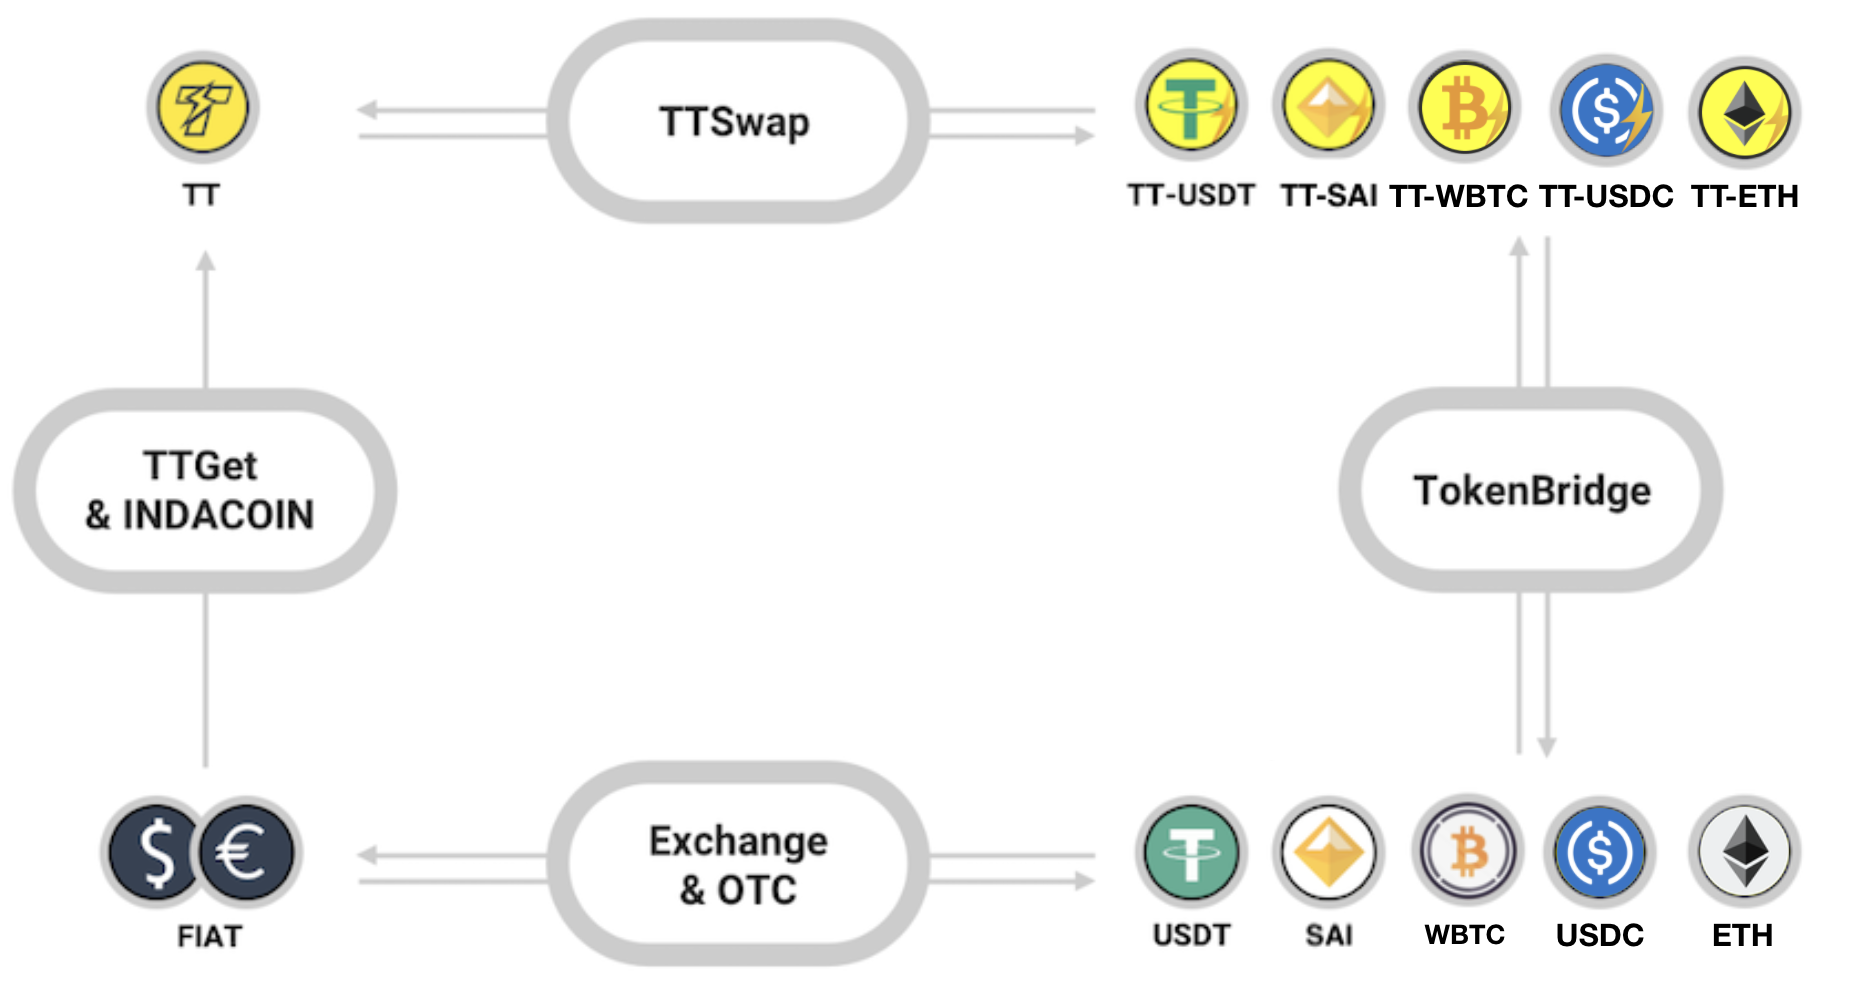
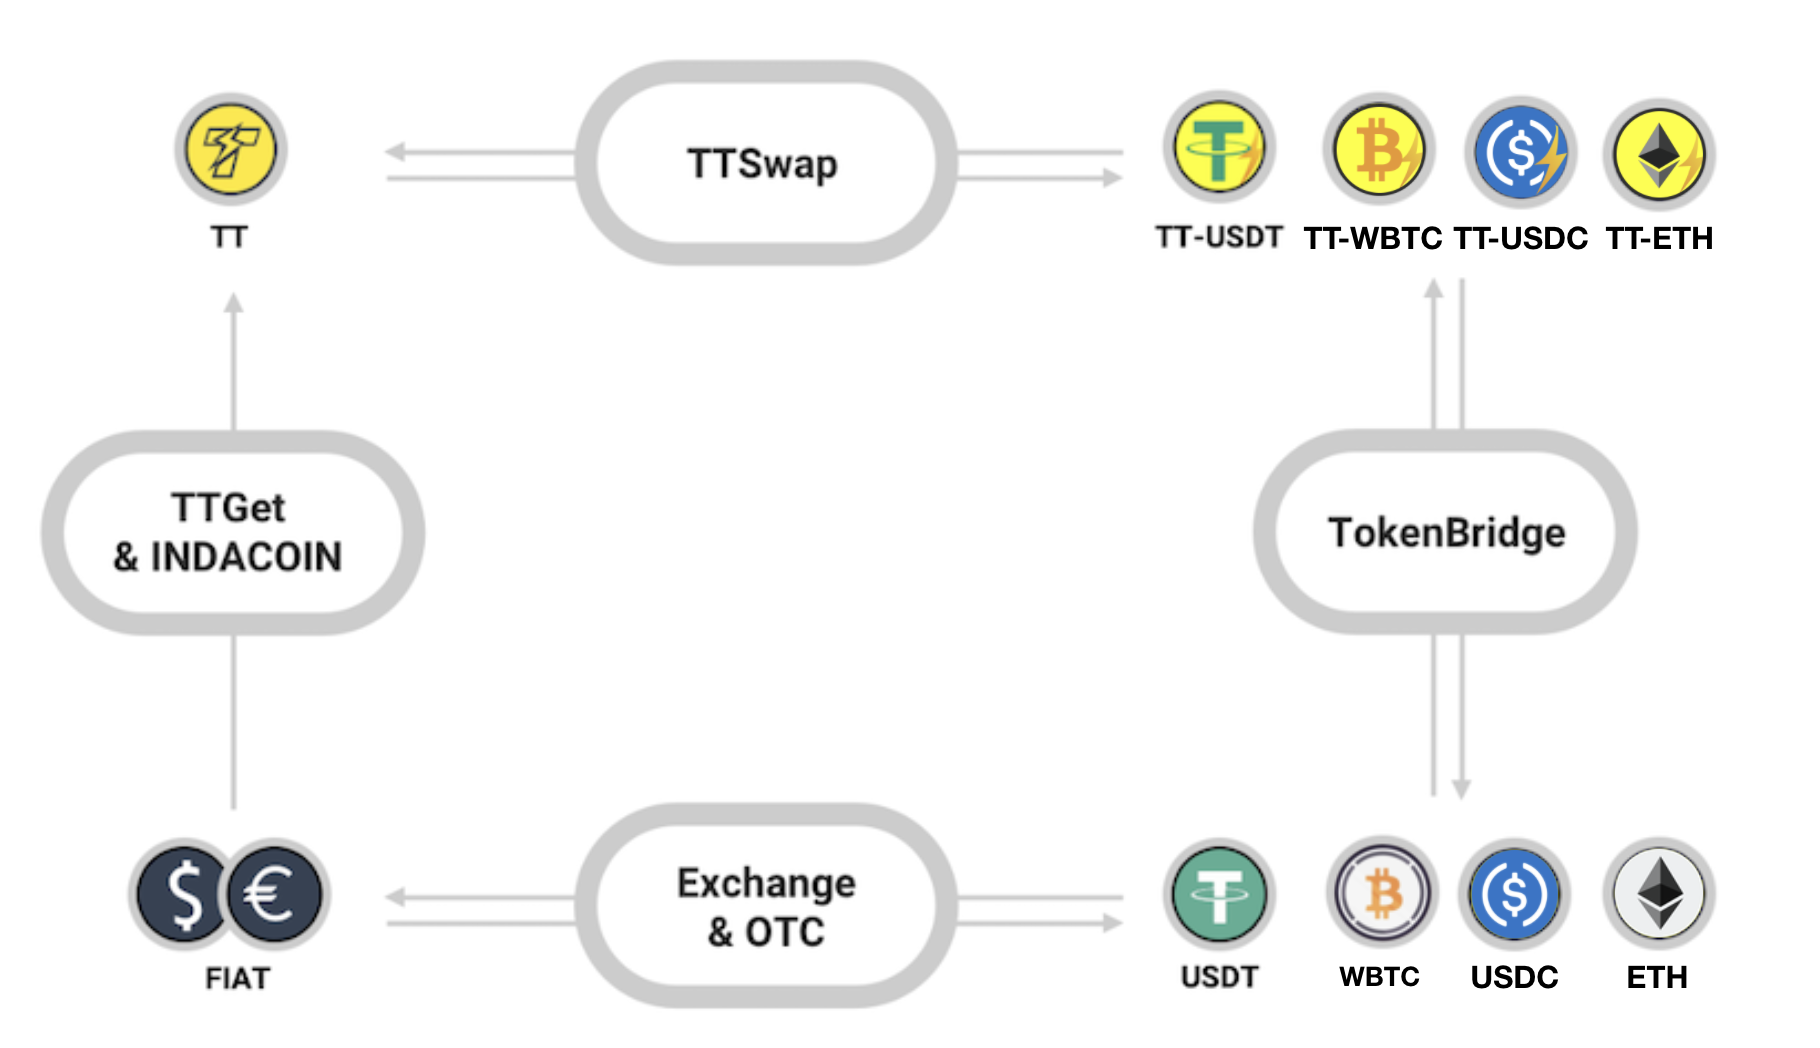
Update reflecting TT-SAI retire

Changed region(s): [[0.0, 0.0, 0.9846, 0.961], [0.2769, 0.744, 0.5231, 0.992], [0.0308, 0.775, 0.2154, 0.961]]

diff --git a/docs-en/stblecoin-metamask.md b/docs-en/stblecoin-metamask.md
@@ -4,11 +4,11 @@ title: Add TT20-StableCoin to MetaMask
 ---
 
 ## Intro
-Here’s a guide to show you how to add TT20-USDT or TT20-SAI to your MetaMask. Please note that MetaMask is a third party Web3 wallet, if you have questions about the wallet, please [contact](https://metamask.zendesk.com/hc/en-us) the wallet provider directly.
+Here’s a guide to show you how to add TT20-USDT to your MetaMask. Please note that MetaMask is a third party Web3 wallet, if you have questions about the wallet, please [contact](https://metamask.zendesk.com/hc/en-us) the wallet provider directly.
 
-*TT20-StableCoin: TT20-USDT, TT20-SAI (learn [more](https://www.wikiwand.com/en/Stablecoin) about stablecoin)*
+*TT20-StableCoin: TT20-USDT (learn [more](https://www.wikiwand.com/en/Stablecoin) about stablecoin)*
 
-*If you want to know how to set up and use your MetaMask, please refer to [here](https://developers.thundercore.com/docs/get-wallet/#metamask)*
+*If you want to know how to set up and use your MetaMask, please refer [here](https://developers.thundercore.com/docs/get-wallet/#metamask)*
 
 ## Add TT20-USDT to MetaMask
 
@@ -39,29 +39,3 @@ Here’s a guide to show you how to add TT20-USDT or TT20-SAI to your MetaMask. 
 7. Then you will see TT-USDT listed on your MetaMask
 
 ![alt-text](assets/img/stablecoin-metamask/stablecoin-metamask-7.png)
-
-## Add TT20-SAI to MetaMask
-
-1. Open your MetaMask and make sure the Networks has been switched to ThunderCore
-
-![alt-text](assets/img/stablecoin-metamask/stablecoin-metamask-8.png)
-
-2. Click Add Token 
-
-![alt-text](assets/img/stablecoin-metamask/stablecoin-metamask-9.png)
-
-3. Select Custom Token in the tab
-
-![alt-text](assets/img/stablecoin-metamask/stablecoin-metamask-10.png)
-
-4. Copy `0x2b31e3b88847f03c1335E99A0d1274A2c72059DE` to the Token Contract Address and then the other blanks will be filled in automatically. Press Next to proceed
-
-![alt-text](assets/img/stablecoin-metamask/stablecoin-metamask-11.png)
-
-5. Press Add Tokens to proceed
-
-![alt-text](assets/img/stablecoin-metamask/stablecoin-metamask-12.png)
-
-6. Then you will see TT20-SAI listed on your MetaMask
-
-![alt-text](assets/img/stablecoin-metamask/stablecoin-metamask-13.png)

diff --git a/docs-en/token-listing.md b/docs-en/token-listing.md
@@ -1,0 +1,44 @@
+---
+id: token-listing
+title: Token Listing
+
+# How to add your Token to the ThunderCore Hub ⚡
+
+
+## Intro
+This intro shows you how to list your token on to the ThunderCore Hub, a cryptocurrency wallet with a DAU (Daily Average Users) exceeding 35K. Your tokens will have a chance of achieving great success!
+
+ThunderCore strives to create a platform full of opportunities, rich with content and have many users for developers. You can achieve your dreams here in the ThunderCore community! 
+
+*Please note that your project must be sound and have available information, and most importantly: it must meet all the necessary conditions listed in this article.*
+
+## Token Information
+* Fulfill all the reviewing items below:
+   * Token information 
+      * Address 
+      * Symbol 
+      * Name 
+      * Decimals 
+      * Description (optional) 
+   * Contact information of submitter (Twitter / Telegram / Email)
+   * Product / Website URL
+   * Logo / Icon image (should be not larger than *256 x 256* pixels) 
+
+## Decline Listing Policy
+   * Miss any token information mentioned above
+   * AUpon verification, if found that the smart contract is malicious, ThunderCore reserves the right to decline/revoke listing.
+
+## Listing Fee
+      * 1,000 Thunder Token (TT) per listing 
+      * NOTE: In the case of rejected application, there will be no refund.
+
+## Listing Steps
+         1. Create a pull request to change the `token-list`
+         2. Initiate a transaction to **0x103550d3e41F5e6986aDfDAbaBF610f750932B54**. Its data has a pull request number, and the value must be at least `1000 TT`
+         3. Update the transaction hash in the pull request
+
+
+## Disclaimer
+         * If your project has not been updated for a period of time or is found to be malicious, ThunderCore reserves the right to remove the token from the ThunderCore Hub. 
+         * After your token is listed, it does not mean that ThunderCore has a partnership with your project directly. 
+         * Token listing requests are not guaranteed to be reviewed or executed.

diff --git a/docs-cn/stblecoin-metamask.md b/docs-cn/stblecoin-metamask.md
@@ -4,9 +4,9 @@ title: 将 TT-稳定币添加到 MetaMask
 ---
 
 ## 介绍
-这是向您展示如何将 TT-USDT 或 TT-SAI 添加到您的 MetaMask 的指南。请注意，MetaMask 是一款第三方 Web3 钱包，如果对钱包有疑问，请直接与钱包提供商 [联系](https://metamask.zendesk.com/hc/zh-cn)。
+这是向您展示如何将 TT-USDT 添加到您的 MetaMask 的指南。请注意，MetaMask 是一款第三方 Web3 钱包，如果对钱包有疑问，请直接与钱包提供商 [联系](https://metamask.zendesk.com/hc/zh-cn)。
 
-*TT-稳定币： TT-USDT, TT-SAI (了解 [更多](https://www.wikiwand.com/zh-cn/%E7%A8%B3%E5%AE%9A%E5%B8%81) 关于稳定币)*
+*TT-稳定币： TT-USDT (了解 [更多](https://www.wikiwand.com/zh-cn/%E7%A8%B3%E5%AE%9A%E5%B8%81) 关于稳定币)*
 
 *如果您想知道如何设置和使用您的 MetaMask，请参考 [这里](https://support-center.thundercore.com/docs/metamask/)*
 
@@ -39,29 +39,3 @@ title: 将 TT-稳定币添加到 MetaMask
 7. 然后，您将看到 TT-USDT 列在您的 MetaMask 中
 
 ![alt-text](assets/img/stablecoin-metamask/stablecoin-metamask-7.png)
-
-## 将 TT-SAI 添加到 MetaMask
-
-1. 打开您的 MetaMask，并确保网络已切换到 ThunderCore
-
-![alt-text](assets/img/stablecoin-metamask/stablecoin-metamask-8.png)
-
-2. 点击添加代币
-
-![alt-text](assets/img/stablecoin-metamask/stablecoin-metamask-9.png)
-
-3. 在标签中选择自定义代币
-
-![alt-text](assets/img/stablecoin-metamask/stablecoin-metamask-10.png)
-
-4. 将 `0x2b31e3b88847f03c1335E99A0d1274A2c72059DE` 复制到代币合约地址，其他空白栏位将自动填入，按下一步继续
-
-![alt-text](assets/img/stablecoin-metamask/stablecoin-metamask-11.png)
-
-5. 按添加代币继续
-
-![alt-text](assets/img/stablecoin-metamask/stablecoin-metamask-12.png)
-
-6. 然后，您将看到 TT-SAI 列在您的 MetaMask 中
-
-![alt-text](assets/img/stablecoin-metamask/stablecoin-metamask-13.png)

diff --git a/docs-cn/stblecoin-trustwallet.md b/docs-cn/stblecoin-trustwallet.md
@@ -4,9 +4,9 @@ title: 将 TT-稳定币添加到 Trust Wallet
 ---
 
 ## 介绍
-这里将向您展示如何将 TT-USDT 或 TT-SAI 添加到您的 Trust Wallet。请注意，Trust Wallet 是一款第三方钱包，如果对钱包有疑问，请直接与钱包提供商联系。
+这里将向您展示如何将 TT-USDT 添加到您的 Trust Wallet。请注意，Trust Wallet 是一款第三方钱包，如果对钱包有疑问，请直接与钱包提供商联系。
 
-*TT-稳定币： TT-USDT, TT-SAI (了解 [更多](https://www.wikiwand.com/zh-cn/%E7%A8%B3%E5%AE%9A%E5%B8%81) 关于稳定币)*
+*TT-稳定币： TT-USDT (了解 [更多](https://www.wikiwand.com/zh-cn/%E7%A8%B3%E5%AE%9A%E5%B8%81) 关于稳定币)*
 
 ## 将 TT-USDT 添加到 Trust Wallet
 
@@ -37,33 +37,3 @@ Item | Field
 **Decimals** | 6
 
 ![alt-text](assets/img/stablecoin-trustwallet/stablecoin-trustwallet-6.png)
-
-## 将 TT-SAI 添加到 Trust Wallet
-
-1. 打开 Trust Wallet，然后单击右上角的 `+` 
-
-![alt-text](assets/img/stablecoin-trustwallet/stablecoin-trustwallet-7.png)
-
-2. 在搜索栏中搜索 SAI 或任何文字，然后点击“添加自定义代币”
-
-![alt-text](assets/img/stablecoin-trustwallet/stablecoin-trustwallet-8.png)
-
-3. 请将网络从以太坊切换到 Thunder Token
-
-![alt-text](assets/img/stablecoin-trustwallet/stablecoin-trustwallet-9.png)
-
-![alt-text](assets/img/stablecoin-trustwallet/stablecoin-trustwallet-10.png)
-
-4. 将 `0x2b31e3b88847f03c1335E99A0d1274A2c72059DE` 复制到合约地址，然后将合约地址粘贴到栏位中 
-
-![alt-text](assets/img/stablecoin-trustwallet/stablecoin-trustwallet-11.png)
-
-5. 请在以下栏位中输入以下信息：
-
-Item | Field
------ | -----
-**Name** | TT-SAI
-**Symbol** | TT-SAI
-**Decimals** | 18
-
-![alt-text](assets/img/stablecoin-trustwallet/stablecoin-trustwallet-12.png)

diff --git a/docs-en/stblecoin-trustwallet.md b/docs-en/stblecoin-trustwallet.md
@@ -4,9 +4,9 @@ title: Add TT20-StableCoin to Trust Wallet
 ---
 
 ## Intro
-Here’s a guide to show you how to add TT20-USDT or TT20-SAI to your Trust Wallet. Please note that Trust Wallet is a third party wallet, if you have questions about the wallet, please contact the wallet provider directly.
+Here’s a guide to show you how to add TT20-USDT to your Trust Wallet. Please note that Trust Wallet is a third party wallet, if you have questions about the wallet, please contact the wallet provider directly.
 
-*TT20-StableCoin: TT20-USDT, TT20-SAI (learn [more](https://www.wikiwand.com/en/Stablecoin) about stablecoin)*
+*TT20-StableCoin: TT20-USDT (learn [more](https://www.wikiwand.com/en/Stablecoin) about stablecoin)*
 
 ## Add TT20-USDT to Trust Wallet
 
@@ -37,31 +37,3 @@ Item | Field
 **Decimals** | 6
 
 ![alt-text](assets/img/stablecoin-trustwallet/stablecoin-trustwallet-6.png)
-
-## Add TT20-SAI to Trust Wallet
-
-1. Open Trust Wallet and click on the “+” in the top right corner 
-
-![alt-text](assets/img/stablecoin-trustwallet/stablecoin-trustwallet-7.png)
-
-2. Search for SAI or any text in the search bar, then tap the “Add Custom Token” 
-
-![alt-text](assets/img/stablecoin-trustwallet/stablecoin-trustwallet-8.png)
-
-3. Please switch the Network from Ethereum to Thunder Token
-
-![alt-text](assets/img/stablecoin-trustwallet/stablecoin-trustwallet-9.png)
-
-![alt-text](assets/img/stablecoin-trustwallet/stablecoin-trustwallet-10.png)
-
-4. Copy `0x2b31e3b88847f03c1335E99A0d1274A2c72059DE` to the contract address then paste the contract address into the field
-
-![alt-text](assets/img/stablecoin-trustwallet/stablecoin-trustwallet-11.png)
-
-Item | Field
------ | -----
-**Name** | TT-SAI
-**Symbol** | TT-SAI
-**Decimals** | 18
-
-![alt-text](assets/img/stablecoin-trustwallet/stablecoin-trustwallet-12.png)

diff --git a/docs-en/stablecoin.md b/docs-en/stablecoin.md
@@ -4,11 +4,11 @@ title: Deposit / Withdraw TT20 stablecoin
 ---
 ## Intro about TT20 stablecoin
 
-In order to give our users a better experience of ThunderCore's ecosystem, when you use USDT/SAI to deposit into ThunderCore Hub, it will be automatically converted to TT20 stablecoin. **Please don't worry**, this process is reversible, and when you try to withdraw TT20 stablecoin to your other wallet, it will be converted back to USDT/SAI. 
+In order to give our users a better experience of ThunderCore's ecosystem, when you use USDT to deposit into ThunderCore Hub, it will be automatically converted to TT20 stablecoin. **Please don't worry**, this process is reversible, and when you try to withdraw TT20 stablecoin to your other wallet, it will be converted back to USDT. 
 
 ## Deposit stablecoin from a 3rd party wallet to ThunderCore Hub 
 
-1. After withdrawing your USDT (or SAI) from your 3rd party wallet, open ThunderCore Hub and go to the wallet tab then tap USDT and then you will see the transactions progress bar as shown below.
+1. After withdrawing your USDT from your 3rd party wallet, open ThunderCore Hub and go to the wallet tab then tap USDT and then you will see the transactions progress bar as shown below.
 
 * This step may take a while due to the Ethereum network. 
 

diff --git a/docs-cn/stablecoin.md b/docs-cn/stablecoin.md
@@ -2,11 +2,11 @@
 id: stablecoin
 title: 存入 / 提领 TT20-稳定币
 ---
-为了使用户更好地体验 TT 链的生态，当您将 USDT / SAI 存入 TT 站时，它将自动转换为 TT20-稳定币。**请不要担心**，此过程是可逆的，当您使用 TT20-稳定币提领到其他钱包时，它将转换回 USDT / SAI。 
+为了使用户更好地体验 TT 链的生态，当您将 USDT 存入 TT 站时，它将自动转换为 TT20-稳定币。**请不要担心**，此过程是可逆的，当您使用 TT20-稳定币提领到其他钱包时，它将转换回 USDT。 
 
 ## 将 TT20-稳定币自第三方钱包存入 TT 站 
 
-1. 从第三方钱包中提取 USDT (或 SAI)后。打开 TT 站并转到 “钱包” 页面，然后点击 USDT，您将看到如下的交易进度栏。
+1. 从第三方钱包中提取 USDT 后。打开 TT 站并转到 “钱包” 页面，然后点击 USDT，您将看到如下的交易进度栏。
 
 * 由于以太坊网络，此步骤可能需要一段时间。
 

diff --git a/docs-en/financial-service-landscape.md b/docs-en/financial-service-landscape.md
@@ -17,9 +17,9 @@ _If you are a crypto holder or user_
   1. You can get your TT via [here](https://coinmarketcap.com/currencies/thunder-token/#markets) 
   2. Clicking on `Pair` will direct you to the trading pair for the exchange
 
-* Convert your USDT/SAI to TT-StableCoin via [ThunderBridge](https://bridge.thundercore.com/)
+* Convert your USDT to TT-StableCoin via [ThunderBridge](https://bridge.thundercore.com/)
   1. Refer to [ThunderBridge](https://bridge.thundercore.com/) and enable the Web3 wallet (such as MetaMask) to start 
-  2. Input the amount of USDT/SAI you want to transfer 
+  2. Input the amount of USDT you want to transfer 
   3. Wait for the block confirmation and then you will see the Success page if the transaction is complete 
   4. Check out the [Tutorial](https://docs.thundercore.com/docs/ThunderStableCoinTutorial.pdf) if you have other questions about [ThunderBridge](https://bridge.thundercore.com/)
 

diff --git a/docs-cn/financial-service-landscape.md b/docs-cn/financial-service-landscape.md
@@ -17,9 +17,9 @@ _如果你是一个数字货币持有者_
   1. 你可以从 [这里](https://coinmarketcap.com/currencies/thunder-token/#markets) 获得 TT  
   2. 点击 “Pair” 将引导您到交易对进行交易
 
-* 通过 [ThunderBridge](https://bridge.thundercore.com/) 将您的USDT / SAI 转换为 TT-StableCoin (TT-稳定币)
+* 通过 [ThunderBridge](https://bridge.thundercore.com/) 将您的USDT 转换为 TT-StableCoin (TT-稳定币)
   1. 请参考 [ThunderBridge](https://bridge.thundercore.com/) 并启用 Web3 钱包(例如 MetaMask)以启动 
-  2. 输入您要转换的 USDT / SAI 的金额 
+  2. 输入您要转换的 USDT 的金额 
   3. 等待区块确认，如交易完成，您将看到成功页面 
   4. 如果您对 [ThunderBridge](https://bridge.thundercore.com/) 仍有其他疑问，请查看 [教程](https://docs.thundercore.com/docs/ThunderStableCoinTutorial.pdf)
 
